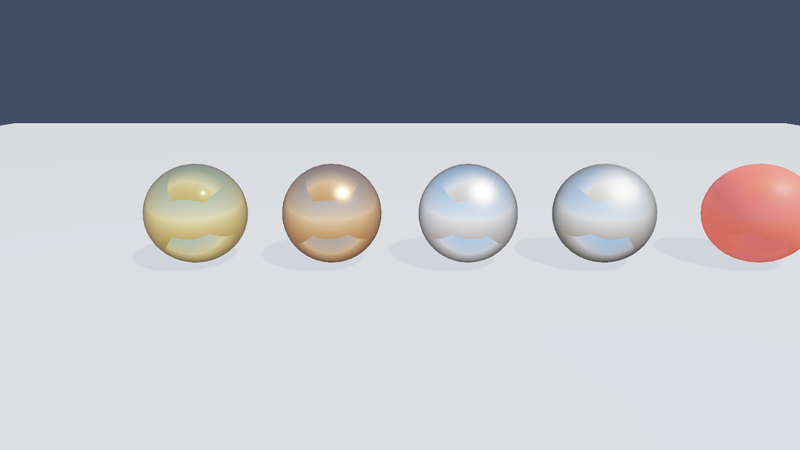
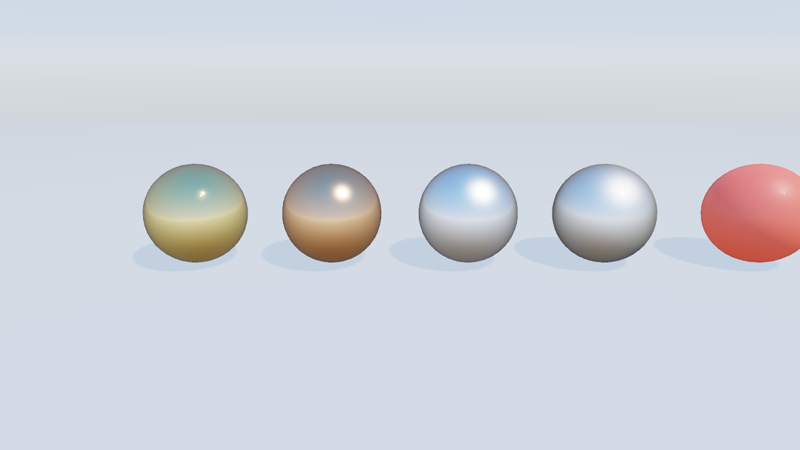
feat(render): 天空盒背景 pass + 修复烘焙参数步长错位
天空盒：主 pass 内最先绘制的全屏三角形（深度只测不写），像素 NDC 经
inv_view_proj（Globals 扩至 560B）重建世界射线，采样预滤波环境 0 级 mip
（粗糙度 0 的预滤波与原始天空逐像素一致，无需单独绑定天空贴图）。场景
背景与 IBL 环境同源，金属球上半球反射蓝天、下半球反射地面。

修复 environment.rs 烘焙参数写入步长 bug：CPU 按 16B 紧凑写入、烘焙
pass 按 256B 动态偏移读取，除 0 号槽外全部参数错位，预滤波立方体六面
被烘成同一面内容。症状：天空盒高仰角带纯红偏置、IBL 环境光方位失真；
IBL 差分测试未报（+X 地平线色恰好也是蓝，弱断言抓不住）。定位方法：
解析天空 vs 贴图采样二分 + 逐像素正向 ACES 链路验证（须穿透 sRGB 编码
与色调映射两层解码）。

背景断言适配：旧测试以固定清屏色为背景参照，改为同高度角点互证 +
天空覆盖率区间断言。84 测试全过、零警告、release 构建通过。

diff --git a/crates/iris-render/src/pipeline.rs b/crates/iris-render/src/pipeline.rs
@@ -6,9 +6,10 @@ pub const SHADOW_MAP_SIZE: u32 = 2048;
 /// HDR 中间缓冲格式（线性、单采样，供色调映射 pass 采样）。
 pub const HDR_FORMAT: wgpu::TextureFormat = wgpu::TextureFormat::Rgba16Float;
 
-/// 主管线、阴影管线、泛光管线（提取 + 模糊）与色调映射管线，以及全部绑定组布局。
+/// 主管线、阴影管线、天空盒、泛光管线（提取 + 模糊）与色调映射管线，以及全部绑定组布局。
 pub(crate) struct PipelineBundle {
     pub pipeline: wgpu::RenderPipeline,
+    pub sky_pipeline: wgpu::RenderPipeline,
     pub shadow_pipeline: wgpu::RenderPipeline,
     pub blit_pipeline: wgpu::RenderPipeline,
     pub bloom_threshold_pipeline: wgpu::RenderPipeline,
@@ -176,6 +177,57 @@ pub(crate) fn create_pipeline(
             format: wgpu::TextureFormat::Depth32Float,
             depth_write_enabled: Some(true),
             depth_compare: Some(wgpu::CompareFunction::Less),
+            stencil: Default::default(),
+            bias: Default::default(),
+        }),
+        multisample: wgpu::MultisampleState {
+            count: sample_count,
+            ..Default::default()
+        },
+        multiview_mask: None,
+        cache: None,
+    });
+
+    // 天空盒：全屏三角形按像素射线采样预滤波环境贴图 0 级 mip（= 原始天空）。
+    // 主 pass 内最先绘制；深度只测不写（Always + write false），几何体随后覆盖。
+    let sky_shader = device.create_shader_module(wgpu::ShaderModuleDescriptor {
+        label: Some("iris.shader.skybox"),
+        source: wgpu::ShaderSource::Wgsl(include_str!("../shaders/skybox.wgsl").into()),
+    });
+    let sky_pipeline_layout = device.create_pipeline_layout(&wgpu::PipelineLayoutDescriptor {
+        label: Some("iris.sky.pipeline.layout"),
+        bind_group_layouts: &[Some(&globals_layout)],
+        immediate_size: 0,
+    });
+    let sky_pipeline = device.create_render_pipeline(&wgpu::RenderPipelineDescriptor {
+        label: Some("iris.pipeline.sky"),
+        layout: Some(&sky_pipeline_layout),
+        vertex: wgpu::VertexState {
+            module: &sky_shader,
+            entry_point: Some("vs_main"),
+            compilation_options: Default::default(),
+            buffers: &[],
+        },
+        fragment: Some(wgpu::FragmentState {
+            module: &sky_shader,
+            entry_point: Some("fs_main"),
+            compilation_options: Default::default(),
+            targets: &[Some(wgpu::ColorTargetState {
+                format: HDR_FORMAT,
+                blend: None,
+                write_mask: wgpu::ColorWrites::ALL,
+            })],
+        }),
+        primitive: wgpu::PrimitiveState {
+            topology: wgpu::PrimitiveTopology::TriangleList,
+            cull_mode: None,
+            front_face: wgpu::FrontFace::Ccw,
+            ..Default::default()
+        },
+        depth_stencil: Some(wgpu::DepthStencilState {
+            format: wgpu::TextureFormat::Depth32Float,
+            depth_write_enabled: Some(false),
+            depth_compare: Some(wgpu::CompareFunction::Always),
             stencil: Default::default(),
             bias: Default::default(),
         }),
@@ -408,6 +460,7 @@ pub(crate) fn create_pipeline(
 
     PipelineBundle {
         pipeline,
+        sky_pipeline,
         shadow_pipeline,
         blit_pipeline,
         bloom_threshold_pipeline,

diff --git a/crates/iris-render/tests/offscreen_render.rs b/crates/iris-render/tests/offscreen_render.rs
@@ -33,10 +33,10 @@ fn scene() -> World {
     world
 }
 
-/// 背景清屏色的 sRGB 编码（渲染器默认 clearColor 0.055/0.07/0.10 线性）。
-fn is_background(px: &[u8], i: usize) -> bool {
-    let clear = [64i32, 77, 99]; // ACES 色调映射后的背景 sRGB 值
-    (0..3).all(|c| (px[i + c] as i32 - clear[c]).abs() <= 8)
+/// 两个像素是否为同一颜色（天空背景下角点互证：同一高度的左右角点
+/// 天空色相同——仍能捕获全零回读与区域错位）。
+fn same_color(px: &[u8], a: usize, b: usize) -> bool {
+    (0..3).all(|c| (px[a + c] as i32 - px[b + c] as i32).abs() <= 8)
 }
 
 #[test]
@@ -51,37 +51,43 @@ fn offscreen_renders_lit_cube() {
     let px = renderer.read_pixels();
     assert_eq!(px.len(), (w * h * 4) as usize);
 
-    // 1. 画面角落必须是背景清屏色（场景不会铺满画面；全零数据会在此暴露）
-    let corner = ((2 * w + 2) as usize) * 4;
+    // 1. 画面上缘左右角点应为同一片天空色（场景不会铺满画面；
+    //    全零回读或天空 pass 失效会在此暴露）
+    let corner_l = ((2 * w + 2) as usize) * 4;
+    let corner_r = ((2 * w + w - 3) as usize) * 4;
     assert!(
-        is_background(&px, corner),
-        "左上角应为背景色，实际 RGBA {:?}",
-        &px[corner..corner + 4]
+        same_color(&px, corner_l, corner_r),
+        "上缘左右角点应为同一片天空色，实际 {:?} vs {:?}",
+        &px[corner_l..corner_l + 4],
+        &px[corner_r..corner_r + 4]
     );
 
-    // 2. 画面中心应命中立方体（相机注视点在原点上方，非背景）
+    // 2. 画面中心应命中立方体（与天空色不同）
     let center = ((h / 2) * w + w / 2) as usize * 4;
     assert!(
-        !is_background(&px, center),
-        "画面中心应为立方体而非背景，实际 RGBA {:?}",
+        !same_color(&px, center, corner_l),
+        "画面中心应为立方体而非天空，实际 RGBA {:?}",
         &px[center..center + 4]
     );
 
-    // 2. 非背景覆盖率应超过 3%（相机距 4.5，边长 1 立方体的合理投影）——
-    //    若面环绕顺序写反导致全部背面剔除，覆盖率会趋近 0
+    // 3. 天空覆盖率应在合理区间（相机俯视原点，天空只占上缘一条；
+    //    天空全无说明几何铺满异常，天空占大半说明几何未绘制）
     let mut sampled = 0u32;
-    let mut covered = 0u32;
+    let mut sky = 0u32;
     for y in (0..h).step_by(4) {
         for x in (0..w).step_by(4) {
             let i = ((y * w + x) as usize) * 4;
             sampled += 1;
-            if !is_background(&px, i) {
-                covered += 1;
+            if same_color(&px, i, corner_l) {
+                sky += 1;
             }
         }
     }
-    let ratio = covered as f32 / sampled as f32;
-    assert!(ratio > 0.03, "非背景覆盖率 {ratio:.3} 过低，管线可能失效");
+    let ratio = sky as f32 / sampled as f32;
+    assert!(
+        (0.05..0.9).contains(&ratio),
+        "天空覆盖率 {ratio:.3} 超出合理区间，几何或天空 pass 异常"
+    );
 }
 
 #[test]

diff --git a/crates/iris-render/tests/gltf_render.rs b/crates/iris-render/tests/gltf_render.rs
@@ -62,9 +62,10 @@ fn world_with_stores() -> World {
     world
 }
 
-fn is_background(px: &[u8], i: usize) -> bool {
-    let clear = [64i32, 77, 99]; // ACES 色调映射后的背景 sRGB 值
-    (0..3).all(|c| (px[i + c] as i32 - clear[c]).abs() <= 8)
+/// 天空背景色以左上角像素为参照（同一高度的角点互为天空；
+/// 中心与之相同即说明该处没有几何体）。
+fn is_background(px: &[u8], i: usize, sky: usize) -> bool {
+    (0..3).all(|c| (px[i + c] as i32 - px[sky + c] as i32).abs() <= 8)
 }
 
 #[test]
@@ -89,7 +90,8 @@ fn offscreen_renders_gltf_model() {
     let (w, h) = renderer.size();
     let px = renderer.read_pixels();
     let center = ((h / 2) * w + w / 2) as usize * 4;
-    assert!(!is_background(&px, center), "资源相机下画面中心应是红色 quad");
+    let sky = ((2 * w + 2) as usize) * 4;
+    assert!(!is_background(&px, center, sky), "资源相机下画面中心应是红色 quad");
     // 红色材质：R 通道应显著高于 G/B
     assert!(
         px[center] as i32 - px[center + 1] as i32 > 40
@@ -108,7 +110,8 @@ fn offscreen_renders_gltf_model() {
     renderer.render(&world);
     let px = renderer.read_pixels();
     let center = ((h / 2) * w + w / 2) as usize * 4;
-    assert!(!is_background(&px, center), "挂载相机下画面中心应是红色 quad");
+    let sky = ((2 * w + 2) as usize) * 4;
+    assert!(!is_background(&px, center, sky), "挂载相机下画面中心应是红色 quad");
     assert!(
         px[center] as i32 - px[center + 1] as i32 > 40,
         "挂载相机路径应看到红色 quad，实际 RGBA {:?}",
@@ -160,7 +163,8 @@ fn offscreen_renders_repository_cube_asset() {
     let (w, h) = renderer.size();
     let px = renderer.read_pixels();
     let center = ((h / 2) * w + w / 2) as usize * 4;
-    assert!(!is_background(&px, center), "画面中心应是仓库立方体资产");
+    let sky = ((2 * w + 2) as usize) * 4;
+    assert!(!is_background(&px, center, sky), "画面中心应是仓库立方体资产");
     // 材质 baseColorFactor [0.92, 0.48, 0.18]：橙色 → R 明显高于 B
     assert!(
         px[center] as i32 - px[center + 2] as i32 > 30,

diff --git a/crates/iris-render/src/renderer.rs b/crates/iris-render/src/renderer.rs
@@ -33,7 +33,7 @@ struct PointLightRaw {
     color: [f32; 4], // rgb × intensity, w = range
 }
 
-/// 与 WGSL `Globals` 结构对齐（496 字节，POD）。
+/// 与 WGSL `Globals` 结构对齐（560 字节，POD）。
 #[repr(C)]
 #[derive(Clone, Copy, bytemuck::Pod, bytemuck::Zeroable)]
 struct GlobalsRaw {
@@ -47,9 +47,10 @@ struct GlobalsRaw {
     light_view_proj: [[f32; 4]; 4],
     shadow_params: [f32; 4], // texel_size, bias, strength, enabled
     env_params: [f32; 4],    // 预滤波最大 mip 级, IBL 强度, 保留
+    inv_view_proj: [[f32; 4]; 4], // 天空盒射线重建用
 }
 
-const _: () = assert!(std::mem::size_of::<GlobalsRaw>() == 496, "Globals 必须与 WGSL 布局一致");
+const _: () = assert!(std::mem::size_of::<GlobalsRaw>() == 560, "Globals 必须与 WGSL 布局一致");
 
 /// 阴影深度偏移（正交投影 + 正面剔除下的小常数即可抑制 acne）。
 const SHADOW_BIAS: f32 = 0.0015;
@@ -590,6 +591,7 @@ impl Renderer {
                 0.0,
                 0.0,
             ],
+            inv_view_proj: vp.inverse().to_cols_array_2d(),
         };
         self.gpu
             .queue
@@ -747,6 +749,10 @@ impl Renderer {
                 occlusion_query_set: None,
                 multiview_mask: None,
             });
+            // 天空盒背景最先绘制（深度只读，几何体随后覆盖）
+            pass.set_pipeline(&self.bundle.sky_pipeline);
+            pass.set_bind_group(0, &self.globals_bg, &[]);
+            pass.draw(0..3, 0..1);
             pass.set_pipeline(&self.bundle.pipeline);
             pass.set_bind_group(0, &self.globals_bg, &[]);
             if total > 0 {

diff --git a/crates/iris-render/src/environment.rs b/crates/iris-render/src/environment.rs
@@ -169,8 +169,11 @@ pub(crate) fn bake_environment(gpu: &Gpu) -> EnvironmentMaps {
     });
     let mut params_data = vec![0u8; SLOTS as usize * STRIDE as usize];
     let mut write_slot = |slot: usize, face: f32, roughness: f32| {
+        // 写入步长必须与烘焙 pass 的动态偏移步长（STRIDE=256）一致：
+        // slot k 的参数必须落在字节 k·256 处，pass k 才能在偏移 k·256 读到它
+        let base = slot * STRIDE as usize;
         let bytes: [u8; 16] = bytemuck::cast([face, roughness, 0.0, 0.0]);
-        params_data[slot * 16..slot * 16 + 16].copy_from_slice(&bytes);
+        params_data[base..base + 16].copy_from_slice(&bytes);
     };
     for face in 0..6u32 {
         write_slot(SKY_BASE + face as usize, face as f32, 0.0);

diff --git a/ARCHITECTURE.md b/ARCHITECTURE.md
@@ -108,7 +108,8 @@ World 查询 (Transform, MeshHandle, MaterialHandle)
   → 按 (网格, 材质) 稳定排序 → 相同 key 连续成批
   → 一次 write_buffer 上传全部实例
   → 阴影 pass（可选）：光源正交视角，深度写入 R32Float 颜色附件（2048²）
-  → 主 pass：渲染到线性 HDR 中间缓冲（Rgba16Float + 4x MSAA → resolve），
+  → 主 pass：天空盒背景（inv_view_proj 射线采样预滤波环境 0 级 mip，深度只读）
+    → 几何体渲染到线性 HDR 中间缓冲（Rgba16Float + 4x MSAA → resolve），
     环境光采样初始化时烘焙好的 IBL 贴图（辐照度 / 预滤波 / BRDF LUT）
   → 泛光（可选）：亮度提取 → 高斯模糊（半分辨率三轮分离迭代）
   → blit pass：叠加泛光 + ACES 色调映射 → sRGB 目标
@@ -265,9 +266,19 @@ GPU 适配器缺失时构造返回 `None`，调用方优雅降级——测试可
   金属的环境反射由 `fresnel_schlick_roughness` 抬高边缘反射率。
 - **控制**：`EnvironmentSettings { intensity }` World 资源整帧缩放（0 = 关闭，
   集成测试用开/关差分验证：铬球应反射出成片蓝天像素）。
+- **天空盒背景**：主 pass 内最先绘制的全屏三角形（深度只测不写），像素 NDC
+  （z = 远平面）经 `inv_view_proj`（Globals 内，560B）变换回世界空间，
+  方向 = 远平面点 − 相机位置；采样预滤波环境 0 级 mip——粗糙度 0 的预滤波
+  结果与原始天空逐像素一致，无需为背景单独绑定贴图。
 - **烘焙 pass 的读写边界**：预滤波读天空立方体、写预滤波立方体——不同纹理
   同 pass 无冲突；pass 参数（面索引/粗糙度）经 256B 步长动态偏移传入
   （单次 submit 内多次 write_buffer 同一缓冲会在命令缓冲执行前全部完成）。
+- **烘焙参数步长陷阱**：CPU 写入与 GPU 动态偏移必须用同一步长（256B）。
+  曾按 16B 紧凑写入、按 256B 偏移读取——除 0 号槽外全部参数错位，
+  预滤波立方体六个面被烘成同一面的内容。实测症状：天空盒高仰角区域
+  带纯红偏置（采样到 +X 面地平线色）；IBL 差分测试仍然通过（地平线色
+  恰好也是蓝色，弱断言抓不住）——最终靠「解析天空 vs 贴图采样」二分
+  + 逐像素正向 ACES 验证定位。
 - **图元环绕方向陷阱**：`uv_sphere` 的索引曾按 [a,c,d/a,d,b] 生成——
   `(∂φ)×(∂θ)` 指向球内，CCW 正面判定下**所有外向面被剔除、渲染的是内壁**，
   法线背向相机导致直接光照恒 0（实测症状：球体在 2.5 强度强光下仍是纯黑
@@ -318,9 +329,9 @@ GPU 适配器缺失时构造返回 `None`，调用方优雅降级——测试可
 4. **无热重载**：CPU 目录句柄不可变，资产修改需重建。
 5. **Web 目标**：代码路径兼容（无平台分支），但 winit/wasm 窗口层未做端到端验证。
 6. **点光无阴影**：方向光已有阴影贴图；点光阴影（cubemap）在路线图中。
-7. **环境源为程序化天空**：IBL 无外部 HDR 资产加载，场景背景仍是纯色清屏
-   （天空盒背景 pass 在路线图中）；太阳盘方向固定（装饰性，分析光仍来自
-   `DirectionalLight` 资源）。
+7. **环境源为程序化天空**：IBL 无外部 HDR 资产加载，场景背景即程序化天空
+   （天空盒 pass）；太阳盘方向固定（装饰性，分析光仍来自 `DirectionalLight`
+   资源），与烘焙立方体里的太阳盘无联动。
 8. **阴影偏移为常数 bias**：无坡度缩放 / 法线偏移（normal offset），大入射角
    掠射表面可能有轻微 acne；PCF 9 采样在实际场景中已足够干净。
 
